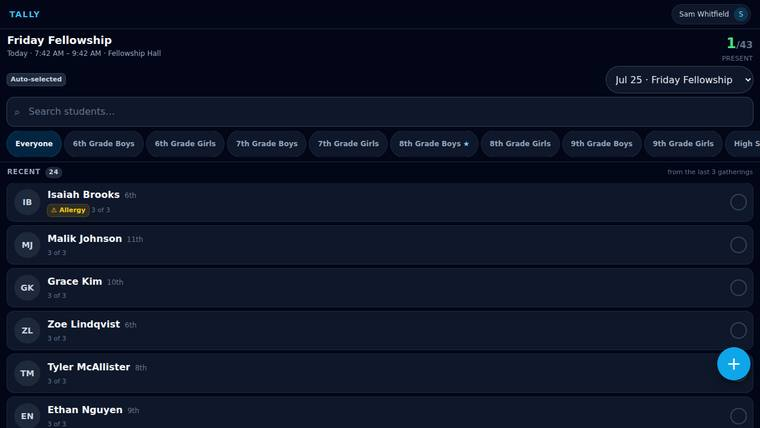
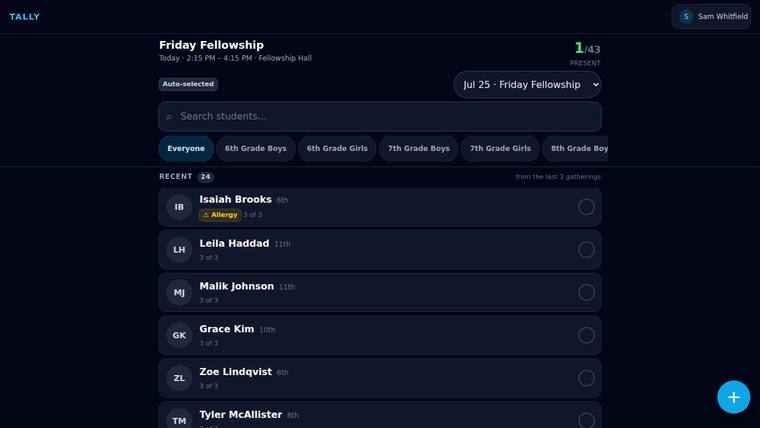
Re-shoot the walkthrough, and fix what it caught
The tour still described an app that mirrored Planning Center and had one
theme. It now walks the app as built: thresholds with their consequences
beside them, a Planning Center card that holds nothing, the same screen in
daylight, and a parent's phone number fetched for one student at the moment
somebody needs it — with the database holding none of it.

Photographing it turned up a bug no test had an opinion about. Every student
on the roster wore a "Missing info" badge, the filter chip offered
"Incomplete profiles (44)" out of 44, and the detail screen printed "Missing
parent contact" directly above the parent's phone number. `profileComplete`
has three states and only `false` is a problem: `null` means a roster read
did not hydrate households, so nobody has checked. Reading that as "no way to
reach a parent" hands the core team a follow-up list containing the entire
ministry.

The detail screen does better than the flag now — it has the contact in hand,
so it answers from what is on screen and accuses nobody while the lookup is
still in flight. And the dashboard's new-visitor rows stop hiding the contact
actions behind it: `FollowUpActions` looks the number up itself and says so
when there is nobody to call.

Claude-Session: https://claude.ai/code/session_018e5qMvQgJoVAeFEfpCxXjS

diff --git a/e2e/walkthrough.spec.ts b/e2e/walkthrough.spec.ts
@@ -54,6 +54,16 @@ test('capture the walkthrough', async ({ page, signedInAs }) => {
 
   /* ---- Journey 0: the way in ------------------------------------------- */
 
+  /*
+   * Photograph the app the way it is met.
+   *
+   * Tally follows the device by default, and Playwright's default device
+   * prefers light — so without this the tour would be a daylight tour of an app
+   * whose home is a dim room on a Friday night. The light theme gets its own
+   * frame later, chosen explicitly, which is how a person would meet it too.
+   */
+  await page.emulateMedia({ colorScheme: 'dark' });
+
   await page.goto('/login');
   await page.waitForTimeout(600);
   await capture(page, {
@@ -130,7 +140,7 @@ test('capture the walkthrough', async ({ page, signedInAs }) => {
     journey: 'Journey 3 — bring a friend',
     title: 'The visitor is already checked in',
     caption:
-      'Back on the roster with no interruption. Behind the scenes the profile carries a “missing info” flag, which is what puts them on the core team’s follow-up list later that evening.',
+      'Back on the roster with no interruption. The record is Tally’s own and is queued for Planning Center — a Cloud Function pushes it upstream, and until it lands the student carries a “not pushed yet” flag rather than a half-filled profile.',
   });
 
   /* ---- Journey 5: the dashboard ---------------------------------------- */
@@ -150,7 +160,7 @@ test('capture the walkthrough', async ({ page, signedInAs }) => {
     journey: 'Journey 5 — pastoral follow-up',
     title: 'New faces and incomplete profiles',
     caption:
-      'First-timers from the past week, and the profiles still missing a way to reach a parent — the visitors quick-added at the door. “Copy list” puts names and numbers on the clipboard for a group chat, which is what actually happens.',
+      'First-timers from the past week, and the profiles with no way to reach a parent — the visitors quick-added at the door, before anyone in the church office has met them. “Copy list” puts names and numbers on the clipboard for a group chat, which is what actually happens.',
   });
 
   await page.mouse.wheel(0, 900);
@@ -195,29 +205,54 @@ test('capture the walkthrough', async ({ page, signedInAs }) => {
 
   await gotoReady(page, '/settings');
   await capture(page, {
-    journey: 'Planning Center',
-    title: 'Settings and the sync',
+    journey: 'Settings',
+    title: 'Thresholds, in plain language',
     caption:
-      'The predictive thresholds are configurable with a plain-language preview. Below them, the Planning Center card: what the last sync did, and a button to run one now.',
+      'The prediction window is the one genuinely dangerous control here — it silently reshapes what every counselor sees at the door — so each number is restated as the behaviour it causes, and the panel beside it counts the students the change would actually move. Nobody should have to reason about “2 of 3” at 6:55pm.',
   });
 
-  await page.getByRole('button', { name: /^sync now/i }).click();
-  await page.waitForTimeout(6000);
+  await page.getByRole('button', { name: /^refresh/i }).click();
+  await page.waitForTimeout(4000);
   await capture(page, {
     journey: 'Planning Center',
-    title: 'A sync, end to end',
+    title: 'Connected, and holding nothing',
     caption:
-      'Browser → callable → Cloud Function → the Planning Center API → Firestore → back through onSnapshot. Students and counselors both come from Planning Center; access is derived from it rather than from a list somebody maintains by hand.',
+      'Tally reads its people from Planning Center and keeps no copy of them. “Refresh” is a live read: browser → callable → Cloud Function → the Planning Center API → back. Between reads a short cache (30 seconds by default, 0 to turn it off) keeps a busy door from becoming a rate limit.',
   });
+
+  /* ---- Themes ---------------------------------------------------------- */
+
+  await page.getByRole('radio', { name: /^light$/i }).click();
+  await page.waitForTimeout(500);
+  await capture(page, {
+    journey: 'Settings',
+    title: 'The same screen, in daylight',
+    caption:
+      'Dark is the default because Tally’s home is a dim room on a Friday night, but a Sunday morning classroom is not that room. Light, dark, or follow the device — the choice is per-person and local, unlike the thresholds above it, which are ministry-wide the instant they save.',
+  });
+
+  await page.getByRole('radio', { name: /match device/i }).click();
+  await page.waitForTimeout(400);
+
+  /* ---- Data minimisation ------------------------------------------------ */
 
   await gotoReady(page, '/students');
   await page.getByLabel('Search', { exact: true }).fill('Adebayo');
   await page.waitForTimeout(1200);
   await capture(page, {
-    journey: 'Planning Center',
-    title: 'People pulled from Planning Center',
+    journey: 'The roster',
+    title: 'A roster nobody stores',
     caption:
-      'Amara Okonkwo existed only in Planning Center a moment ago. Her grade, allergies and parent contact all came across — the contact resolved through her household, since Planning Center keeps it on the parent’s record, not the child’s.',
+      'These names are not in Tally’s database. They arrived from Planning Center on this page load, merged with the handful of things Planning Center has no opinion about — a small group, a note, when somebody first turned up.',
+  });
+
+  await page.getByRole('link', { name: /Adebayo/ }).first().click();
+  await page.waitForTimeout(2500);
+  await capture(page, {
+    journey: 'The roster',
+    title: 'Who do I call, and only when asked',
+    caption:
+      'A parent’s number, fetched for one student at the moment somebody needs it — resolved through her household, since Planning Center keeps contact on the parent’s record rather than the child’s. Firestore holds none of it: no parent name, no phone, no email, no allergies. For a database full of minors, the safest copy is the one that was never made.',
   });
 
   await writeFile(

diff --git a/src/features/students/StudentsPage.tsx b/src/features/students/StudentsPage.tsx
@@ -53,7 +53,10 @@ export function StudentsPage() {
       if (status !== 'all' && student.status !== status) return false;
       if (grade !== null && student.grade !== grade) return false;
       if (groupId && student.smallGroupId !== groupId) return false;
-      if (quick === 'incomplete' && student.profileComplete) return false;
+      // `profileComplete` has three states and only `false` is a problem:
+      // `null` means a roster read did not hydrate households, so nobody has
+      // checked. Filtering on truthiness listed the entire ministry.
+      if (quick === 'incomplete' && student.profileComplete !== false) return false;
       if (quick === 'visitors' && !student.isVisitor) return false;
       if (needle && !matchesQuery(student.searchName, needle)) return false;
       return true;
@@ -61,7 +64,9 @@ export function StudentsPage() {
   }, [students, status, grade, groupId, quick, query]);
 
   const incompleteCount = useMemo(
-    () => students.filter((student) => student.status === 'active' && !student.profileComplete).length,
+    () =>
+      students.filter((student) => student.status === 'active' && student.profileComplete === false)
+        .length,
     [students],
   );
   const visitorCount = useMemo(
@@ -267,7 +272,7 @@ const StudentListRow = memo(function StudentListRow({
               {studentFullName(student)}
             </span>
             {student.isVisitor ? <Badge tone="brand">Visitor</Badge> : null}
-            {!student.profileComplete ? <Badge tone="warn">Missing info</Badge> : null}
+            {student.profileComplete === false ? <Badge tone="warn">Missing info</Badge> : null}
             {student.status === 'inactive' ? <Badge tone="neutral">Inactive</Badge> : null}
           </span>
           <span className="mt-0.5 flex items-center gap-2 text-xs text-ink-500">

diff --git a/src/features/students/StudentDetailPage.tsx b/src/features/students/StudentDetailPage.tsx
@@ -136,6 +136,17 @@ export function StudentDetailPage() {
   const email = details?.parentEmail?.trim() ?? '';
   const parentLabel = details?.parentName?.trim() || `${name}'s parent`;
 
+  /*
+   * Whether anyone can actually be reached — answered from what is on screen.
+   *
+   * This screen is the one place that has the contact details in hand, so it
+   * does not have to trust the roster's flag. That matters because the flag is
+   * usually `null`: a roster read does not hydrate households, and reading
+   * `null` as "incomplete" put a warning badge directly above a parent's phone
+   * number. Until the lookup lands, nobody is accused of anything.
+   */
+  const unreachable = details ? !phone && !email : student.profileComplete === false;
+
   const toggleStatus = async () => {
     if (!user || statusBusy) return;
     const next = student.status === 'active' ? 'inactive' : 'active';
@@ -191,7 +202,7 @@ export function StudentDetailPage() {
           </p>
           <div className="mt-1.5 flex flex-wrap gap-1.5">
             {student.isVisitor ? <Badge tone="brand">Visitor</Badge> : null}
-            {!student.profileComplete ? <Badge tone="warn">Missing parent contact</Badge> : null}
+            {unreachable ? <Badge tone="warn">Missing parent contact</Badge> : null}
             {student.status === 'inactive' ? <Badge tone="neutral">Inactive</Badge> : null}
             {student.hasAllergies ? <Badge tone="warn">Allergies</Badge> : null}
           </div>

diff --git a/scripts/build-walkthrough.ts b/scripts/build-walkthrough.ts
@@ -63,8 +63,10 @@ const markdown: string[] = [
   '# Tally — a walkthrough',
   '',
   'Every screenshot below is the real application, captured by Playwright against a',
-  'live Firebase Emulator Suite and a seeded 45-student ministry. Nothing is a mockup;',
-  'the Planning Center sync in the last three shots really did make HTTP calls.',
+  'live Firebase Emulator Suite and a seeded 45-student ministry. Nothing is a mockup:',
+  'the taps are real writes, the roster arrived over HTTP from a Planning Center standing',
+  'in for the real one, and the parent contact near the end was fetched while the shutter',
+  'was open.',
   '',
   'Regenerate with:',
   '',
@@ -315,8 +317,10 @@ const html = `<title>Tally — a walkthrough</title>
     </p>
     <p class="provenance">
       Every screenshot is the running application, captured by Playwright against a live
-      Firebase Emulator Suite and a seeded 45-student ministry. Nothing here is a mockup, and
-      the Planning Center sync near the end really did make HTTP requests.
+      Firebase Emulator Suite and a seeded 45-student ministry. Nothing here is a mockup: the
+      taps are real writes, the roster arrived over HTTP from a Planning Center standing in for
+      the real one, and the parent’s phone number near the end was fetched while the shutter
+      was open.
     </p>
 
     <div class="toggle" role="group" aria-label="Choose a screen size">

diff --git a/src/features/dashboard/NewVisitorList.tsx b/src/features/dashboard/NewVisitorList.tsx
@@ -76,7 +76,7 @@ function NewVisitorRow({ visitor }: { visitor: NewVisitor }) {
           </span>
         </Link>
 
-        {!student.profileComplete ? (
+        {student.profileComplete === false ? (
           <Badge tone="warn" title="No parent contact on file">
             <span aria-hidden="true">⚠</span>
             Incomplete
@@ -84,7 +84,11 @@ function NewVisitorRow({ visitor }: { visitor: NewVisitor }) {
         ) : null}
       </div>
 
-      {student.profileComplete ? (
+      {/* Only a known-incomplete profile gets the prompt instead of the actions.
+          `FollowUpActions` looks the contact up itself and says so when there is
+          nobody to call, which beats guessing from a flag that is usually
+          `null` — nobody has checked — rather than false. */}
+      {student.profileComplete !== false ? (
         <FollowUpActions student={student} className="mt-1 pb-1 pl-14" />
       ) : (
         <Link

diff --git a/docs/walkthrough/README.md b/docs/walkthrough/README.md
@@ -1,8 +1,10 @@
 # Tally — a walkthrough
 
 Every screenshot below is the real application, captured by Playwright against a
-live Firebase Emulator Suite and a seeded 45-student ministry. Nothing is a mockup;
-the Planning Center sync in the last three shots really did make HTTP calls.
+live Firebase Emulator Suite and a seeded 45-student ministry. Nothing is a mockup:
+the taps are real writes, the roster arrived over HTTP from a Planning Center standing
+in for the real one, and the parent contact near the end was fetched while the shutter
+was open.
 
 Regenerate with:
 
@@ -59,7 +61,7 @@ A first name, a last name, a grade. Nothing else, because anything more forms a 
 
 ### The visitor is already checked in
 
-Back on the roster with no interruption. Behind the scenes the profile carries a “missing info” flag, which is what puts them on the core team’s follow-up list later that evening.
+Back on the roster with no interruption. The record is Tally’s own and is queued for Planning Center — a Cloud Function pushes it upstream, and until it lands the student carries a “not pushed yet” flag rather than a half-filled profile.
 
 ![The visitor is already checked in](web/desktop-06-the-visitor-is-already-checked-in.jpg)
 
@@ -77,7 +79,7 @@ Monday evening. The PRD asks for actionable insight rather than raw numbers, so 
 
 ### New faces and incomplete profiles
 
-First-timers from the past week, and the profiles still missing a way to reach a parent — the visitors quick-added at the door. “Copy list” puts names and numbers on the clipboard for a group chat, which is what actually happens.
+First-timers from the past week, and the profiles with no way to reach a parent — the visitors quick-added at the door, before anyone in the church office has met them. “Copy list” puts names and numbers on the clipboard for a group chat, which is what actually happens.
 
 ![New faces and incomplete profiles](web/desktop-08-new-faces-and-incomplete-profiles.jpg)
 
@@ -119,28 +121,50 @@ The whole ministry, filterable by grade, small group and status. Each row says w
 
 <img src="web/phone-12-students.jpg" width="260" alt="Students on a phone">
 
+## Settings
+
+### Thresholds, in plain language
+
+The prediction window is the one genuinely dangerous control here — it silently reshapes what every counselor sees at the door — so each number is restated as the behaviour it causes, and the panel beside it counts the students the change would actually move. Nobody should have to reason about “2 of 3” at 6:55pm.
+
+![Thresholds, in plain language](web/desktop-13-thresholds-in-plain-language.jpg)
+
+<img src="web/phone-13-thresholds-in-plain-language.jpg" width="260" alt="Thresholds, in plain language on a phone">
+
 ## Planning Center
 
-### Settings and the sync
+### Connected, and holding nothing
 
-The predictive thresholds are configurable with a plain-language preview. Below them, the Planning Center card: what the last sync did, and a button to run one now.
+Tally reads its people from Planning Center and keeps no copy of them. “Refresh” is a live read: browser → callable → Cloud Function → the Planning Center API → back. Between reads a short cache (30 seconds by default, 0 to turn it off) keeps a busy door from becoming a rate limit.
 
-![Settings and the sync](web/desktop-13-settings-and-the-sync.jpg)
+![Connected, and holding nothing](web/desktop-14-connected-and-holding-nothing.jpg)
 
-<img src="web/phone-13-settings-and-the-sync.jpg" width="260" alt="Settings and the sync on a phone">
+<img src="web/phone-14-connected-and-holding-nothing.jpg" width="260" alt="Connected, and holding nothing on a phone">
 
-### A sync, end to end
+## Settings
 
-Browser → callable → Cloud Function → the Planning Center API → Firestore → back through onSnapshot. Students and counselors both come from Planning Center; access is derived from it rather than from a list somebody maintains by hand.
+### The same screen, in daylight
 
-![A sync, end to end](web/desktop-14-a-sync-end-to-end.jpg)
+Dark is the default because Tally’s home is a dim room on a Friday night, but a Sunday morning classroom is not that room. Light, dark, or follow the device — the choice is per-person and local, unlike the thresholds above it, which are ministry-wide the instant they save.
 
-<img src="web/phone-14-a-sync-end-to-end.jpg" width="260" alt="A sync, end to end on a phone">
+![The same screen, in daylight](web/desktop-15-the-same-screen-in-daylight.jpg)
 
-### People pulled from Planning Center
+<img src="web/phone-15-the-same-screen-in-daylight.jpg" width="260" alt="The same screen, in daylight on a phone">
 
-Amara Okonkwo existed only in Planning Center a moment ago. Her grade, allergies and parent contact all came across — the contact resolved through her household, since Planning Center keeps it on the parent’s record, not the child’s.
+## The roster
 
-![People pulled from Planning Center](web/desktop-15-people-pulled-from-planning-center.jpg)
+### A roster nobody stores
 
-<img src="web/phone-15-people-pulled-from-planning-center.jpg" width="260" alt="People pulled from Planning Center on a phone">
+These names are not in Tally’s database. They arrived from Planning Center on this page load, merged with the handful of things Planning Center has no opinion about — a small group, a note, when somebody first turned up.
+
+![A roster nobody stores](web/desktop-16-a-roster-nobody-stores.jpg)
+
+<img src="web/phone-16-a-roster-nobody-stores.jpg" width="260" alt="A roster nobody stores on a phone">
+
+### Who do I call, and only when asked
+
+A parent’s number, fetched for one student at the moment somebody needs it — resolved through her household, since Planning Center keeps contact on the parent’s record rather than the child’s. Firestore holds none of it: no parent name, no phone, no email, no allergies. For a database full of minors, the safest copy is the one that was never made.
+
+![Who do I call, and only when asked](web/desktop-17-who-do-i-call-and-only-when-asked.jpg)
+
+<img src="web/phone-17-who-do-i-call-and-only-when-asked.jpg" width="260" alt="Who do I call, and only when asked on a phone">
